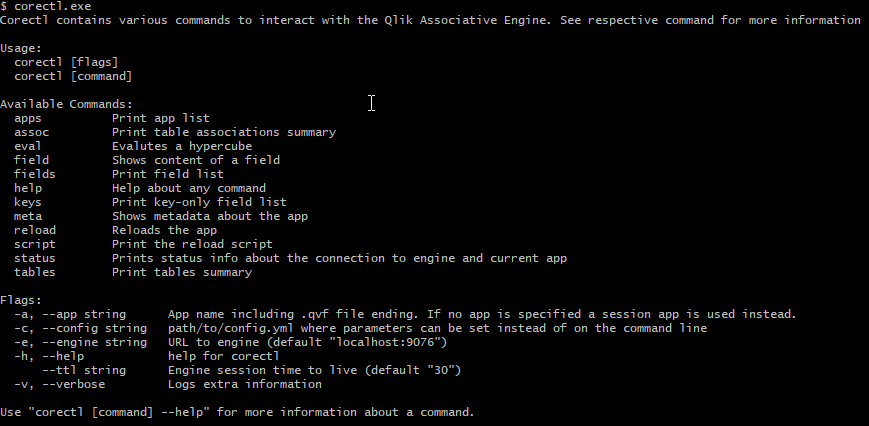
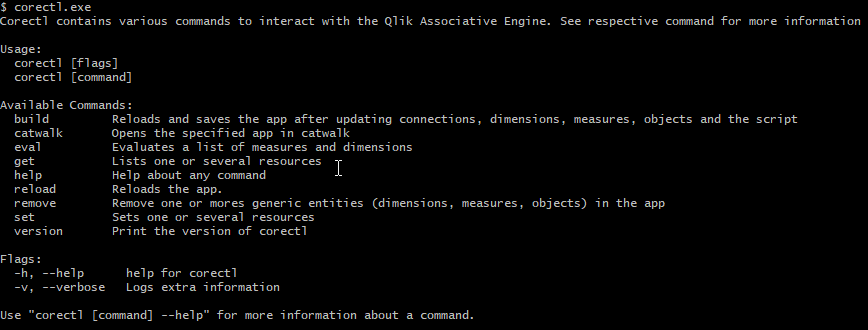
Qlik Core November update 2018 (#446)
* Adding first draft of the update - focus on content

* some minor rephrasing

* Update 2018-11.md

* Add corectl catwalk command info

* Adding new corectl screenshot to update (and in tooling section)

* Update 2018-11.md

* Clarify what has been delivered

* Wording

* Adding information about corectl json output

* Add logging link

* Fix lint

* Fix spaces and link

* Fix link and formatting

Changed region(s): [[0.0, 0.0, 0.9954, 1.0]]

diff --git a/docs/updates/2018-11.md b/docs/updates/2018-11.md
@@ -1,0 +1,83 @@
+# November 2018
+
+In this November 2018 update we would like to highlight a number of updates in
+[catwalk](https://github.com/qlik-oss/catwalk) and [corectl](https://github.com/qlik-oss/corectl).
+
+## Data model experience
+
+In our quest to improve the data modeling experience for developers using Qlik Core, we have continued to work on the
+[catwalk](https://github.com/qlik-oss/catwalk) project. Some of the items we've delivered:
+
+* A list of available apps in an engine if no app is addressed
+* Color-coded field associations based on key type (primary, foreign and perfect)
+* Filterbox supporting the Qlik green-white-gray selection paradigm
+* List of available dimensions and measures
+* Additional information about tables and fields in tooltips
+* Improved stability with bug fixes
+
+To make the load scripting and data modeling flow more fluid, we have also added support in corectl to open the application's
+model in catwalk using the current configuration file. As an example:
+
+```qlik
+corectl catwalk --config config.yml
+```
+
+or set the app directly:
+
+```qlik
+corectl catwalk --app my-app.qvf
+```
+
+Check it out at [catwalk.core.qlik.com](https://catwalk.core.qlik.com), where catwalk is continuously deployed.
+
+## Command structure in corectl
+
+With a growing number of features in corectl, the top level command structure became complex which then made it hard to get
+a good overview of the capabilities. To address this, we have completely overhauled and gathered high level commands
+like build, eval and get on the top level, and added the details in sub commands.
+
+![screenshot](../images/corectl.png)
+
+As an example, getting a list of objects can be done by executing:
+
+```qlik
+corectl get objects
+```
+
+and setting a load script can be done by executing:
+
+```qlik
+corectl set script loadscript.qvs
+```
+
+We also added a requested feature to provide json output (through the --json flag) in our get commands:
+apps, dimensions, measures and objects.
+
+As an example you get a list of applications as in json by:
+
+```qlik
+corectl get apps --json
+```
+
+and a list of dimensions in an application by:
+
+```qlik
+corectl -a application get dimensions --json
+```
+
+Keep yourself up-to-date by looking for the latest releases in:
+[corectl](https://github.com/qlik-oss/corectl)
+
+## Reload log output
+
+With the latest engine version we added support for logging script reloads to `stdout`, just like all other logs in
+Qlik Core, instead of storing the data log in a file inside the engine container. This feature is enabled by adding
+`ScriptLogVerbosity` to the engine parameters when starting the engine. More information can be found in the
+[logging chapter](../services/qix-engine/logging.md#log-types).
+
+## Upcoming
+
+In the upcoming month we will continue hardening our data loading tool corectl. Stay tuned and join the conversation via:
+
+* [slack #qlik-core](https://qlik-branch.slack.com/channels/qlik-core)
+* [github](https://github.com/qlik-oss)
